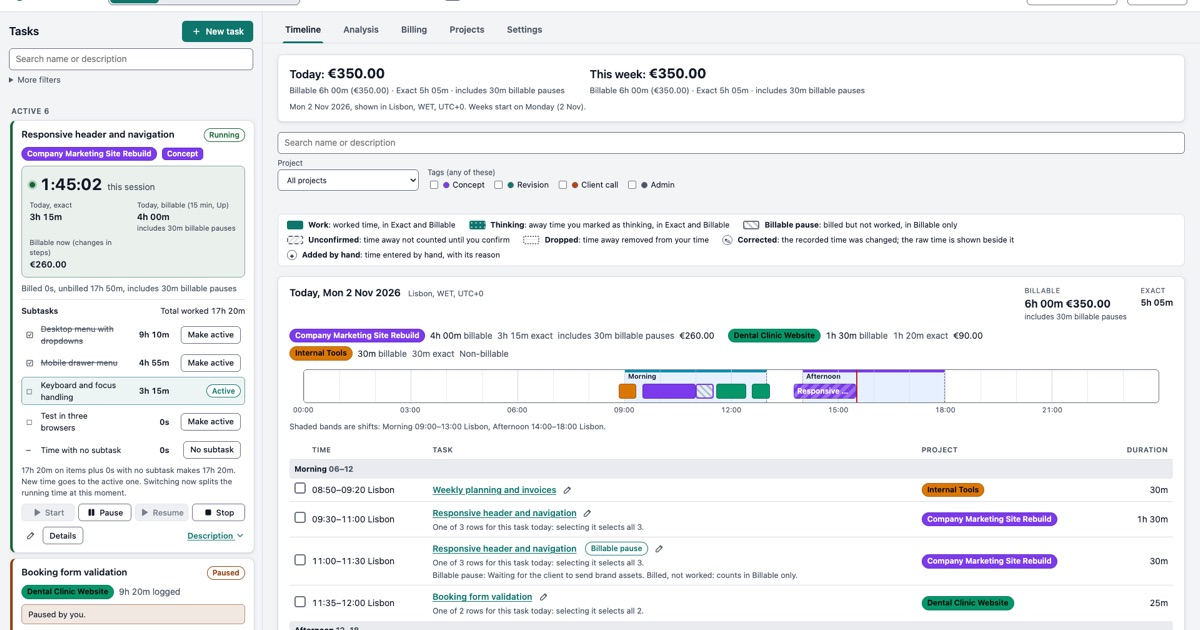
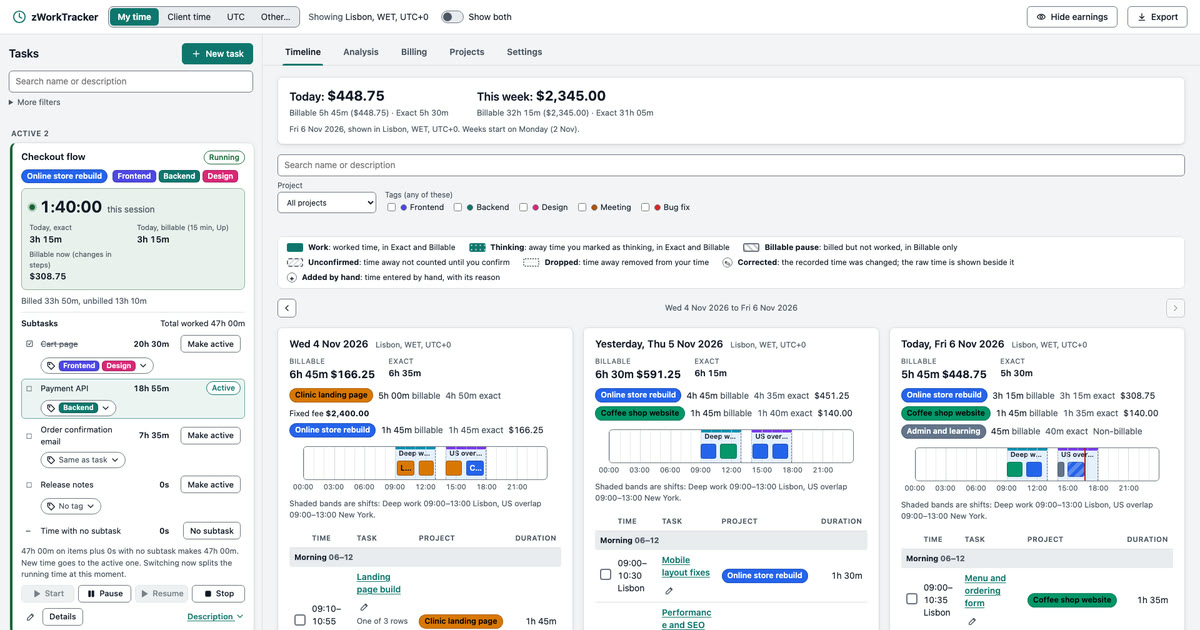
Site: the phone Timeline picture and the link preview show 1.4.0
timeline-phone.webp is the running task card with its subtask tags, and og-image.jpg
the whole window with three days side by side, both cut from the 1.4.0 Store
screenshot. The other pictures show screens 1.4.0 did not change.

diff --git a/site/howto.html b/site/howto.html
@@ -17,7 +17,7 @@
   <meta property="og:image" content="https://z.rustcircle.com/assets/og-image.jpg">
   <meta property="og:image:width" content="1200">
   <meta property="og:image:height" content="630">
-  <meta property="og:image:alt" content="The zWorkTracker Timeline tab with a running timer and a day of tracked work.">
+  <meta property="og:image:alt" content="The zWorkTracker Timeline tab with a running timer, subtask tags and three days of tracked work side by side.">
   <meta name="twitter:card" content="summary_large_image">
   <link rel="icon" type="image/svg+xml" href="assets/favicon.svg">
   <link rel="icon" type="image/png" sizes="64x64" href="assets/icon-64.png">
@@ -135,7 +135,7 @@
       <h3 id="timeline">The timeline</h3>
       <p>The main screen shows the period total, then the days side by side: the oldest on the left and the newest, today once it has time, on the right. It opens on the newest days, and as many days show as fit the window, at least one, so a wider window shows more. The <b>Earlier days</b> and <b>Later days</b> arrows above the days page back and forward. Every day has an axis with blocks in project colours, and its entries are grouped into Night, Morning, Afternoon and Evening. Day headers show Billable and Exact totals, and totals per project with earnings.</p>
       <figure class="doc-figure">
-        <picture><source media="(max-width: 640px)" srcset="assets/timeline-phone.webp" width="394" height="690"><img src="assets/timeline.webp" width="1920" height="1080" loading="lazy" decoding="async" alt="The Timeline tab with a running task and three days side by side, each with its totals, a coloured axis of work and pauses, and a table of entries."></picture>
+        <picture><source media="(max-width: 640px)" srcset="assets/timeline-phone.webp" width="394" height="770"><img src="assets/timeline.webp" width="1920" height="1080" loading="lazy" decoding="async" alt="The Timeline tab with a running task and three days side by side, each with its totals, a coloured axis of work and pauses, and a table of entries."></picture>
         <figcaption>The Timeline tab, with sample data.</figcaption>
       </figure>
       <p>Click an entry to select it, Ctrl+click to add or remove one, and Shift+click to select a run. The selection bar shows the count and the billable total, and can export just those entries. The search box filters tasks by name and description, together with project and tags.</p>

diff --git a/site/index.html b/site/index.html
@@ -17,7 +17,7 @@
   <meta property="og:image" content="https://z.rustcircle.com/assets/og-image.jpg">
   <meta property="og:image:width" content="1200">
   <meta property="og:image:height" content="630">
-  <meta property="og:image:alt" content="The zWorkTracker Timeline tab with a running timer and a day of tracked work.">
+  <meta property="og:image:alt" content="The zWorkTracker Timeline tab with a running timer, subtask tags and three days of tracked work side by side.">
   <meta name="twitter:card" content="summary_large_image">
   <link rel="icon" type="image/svg+xml" href="assets/favicon.svg">
   <link rel="icon" type="image/png" sizes="64x64" href="assets/icon-64.png">
@@ -50,7 +50,7 @@
     </section>
 
     <figure class="wrap stage">
-      <a class="shot" href="assets/timeline.webp"><picture><source media="(max-width: 640px)" srcset="assets/timeline-phone.webp" width="394" height="690"><img src="assets/timeline.webp" width="1920" height="1080" fetchpriority="high" alt="The zWorkTracker Timeline tab. A running task shows its session timer with exact and billable time, and a tags button on each subtask. Beside it, three days sit side by side, each with its earnings, a coloured axis of work and pauses, and a table of time entries, and arrows page through the days."></picture></a>
+      <a class="shot" href="assets/timeline.webp"><picture><source media="(max-width: 640px)" srcset="assets/timeline-phone.webp" width="394" height="770"><img src="assets/timeline.webp" width="1920" height="1080" fetchpriority="high" alt="The zWorkTracker Timeline tab. A running task shows its session timer with exact and billable time, and a tags button on each subtask. Beside it, three days sit side by side, each with its earnings, a coloured axis of work and pauses, and a table of time entries, and arrows page through the days."></picture></a>
       <figcaption>The Timeline tab. Screenshots show sample projects and figures.</figcaption>
     </figure>
 

diff --git a/site/privacy.html b/site/privacy.html
@@ -17,7 +17,7 @@
   <meta property="og:image" content="https://z.rustcircle.com/assets/og-image.jpg">
   <meta property="og:image:width" content="1200">
   <meta property="og:image:height" content="630">
-  <meta property="og:image:alt" content="The zWorkTracker Timeline tab with a running timer and a day of tracked work.">
+  <meta property="og:image:alt" content="The zWorkTracker Timeline tab with a running timer, subtask tags and three days of tracked work side by side.">
   <link rel="icon" type="image/svg+xml" href="assets/favicon.svg">
   <link rel="icon" type="image/png" sizes="64x64" href="assets/icon-64.png">
   <link rel="apple-touch-icon" href="assets/apple-touch-icon.png">
